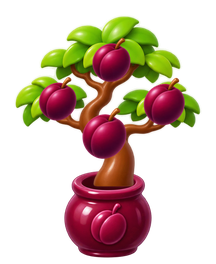
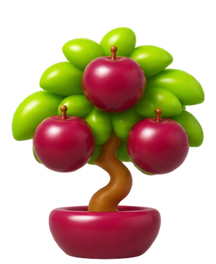
Replace delivered Order trees with recreated Sweet Rope set

diff --git a/Codex_Work/Asset_SRSP_v1/main_scene_review/README.md b/Codex_Work/Asset_SRSP_v1/main_scene_review/README.md
@@ -5,7 +5,7 @@ Mockup 1080 × 2340, dựng ngoài engine. Ref sếp đưa dùng để đối ch
 ## File mới
 
 - `sprout.png`, `soil.png` và `canopy.png` là các lớp rời để ráp với Container. Mầm chỉ đặt trên chậu có loại, Free Rope dùng chậu trống.
-- `delivered_tree_0…9.png` là các hình cây đã Deliver, ghép bằng chậu và Item tương ứng Type ID. Chúng dành cho Order đã giao. Container đầy quả trong manifest vẫn là loại asset riêng.
+- `delivered_tree_0…9.png` là 10 sprite cây đã Deliver, tái tạo theo mẫu được duyệt và xuất theo Type ID. Xem [sheet cây Order](delivered_trees_sheet.png). Ảnh Level 27 là bản dựng tham chiếu trước khi thay bộ cây. Chúng dành cho Order đã giao. Container đầy quả trong manifest vẫn là loại asset riêng.
 - `assets.csv` và `layers.csv` lần lượt ghi kích thước nguồn/xuất và từng lớp dùng trong preview. Source PNG có cùng đường dẫn bên dưới `source/`.
 - 7 PNG thuộc manifest chính: nút thắt Rope, 3 hạt Deliver đổi màu được, trail và glow cho Hint/đặt hợp lệ. Xem `../report_main_scene_ref.csv`.
 
